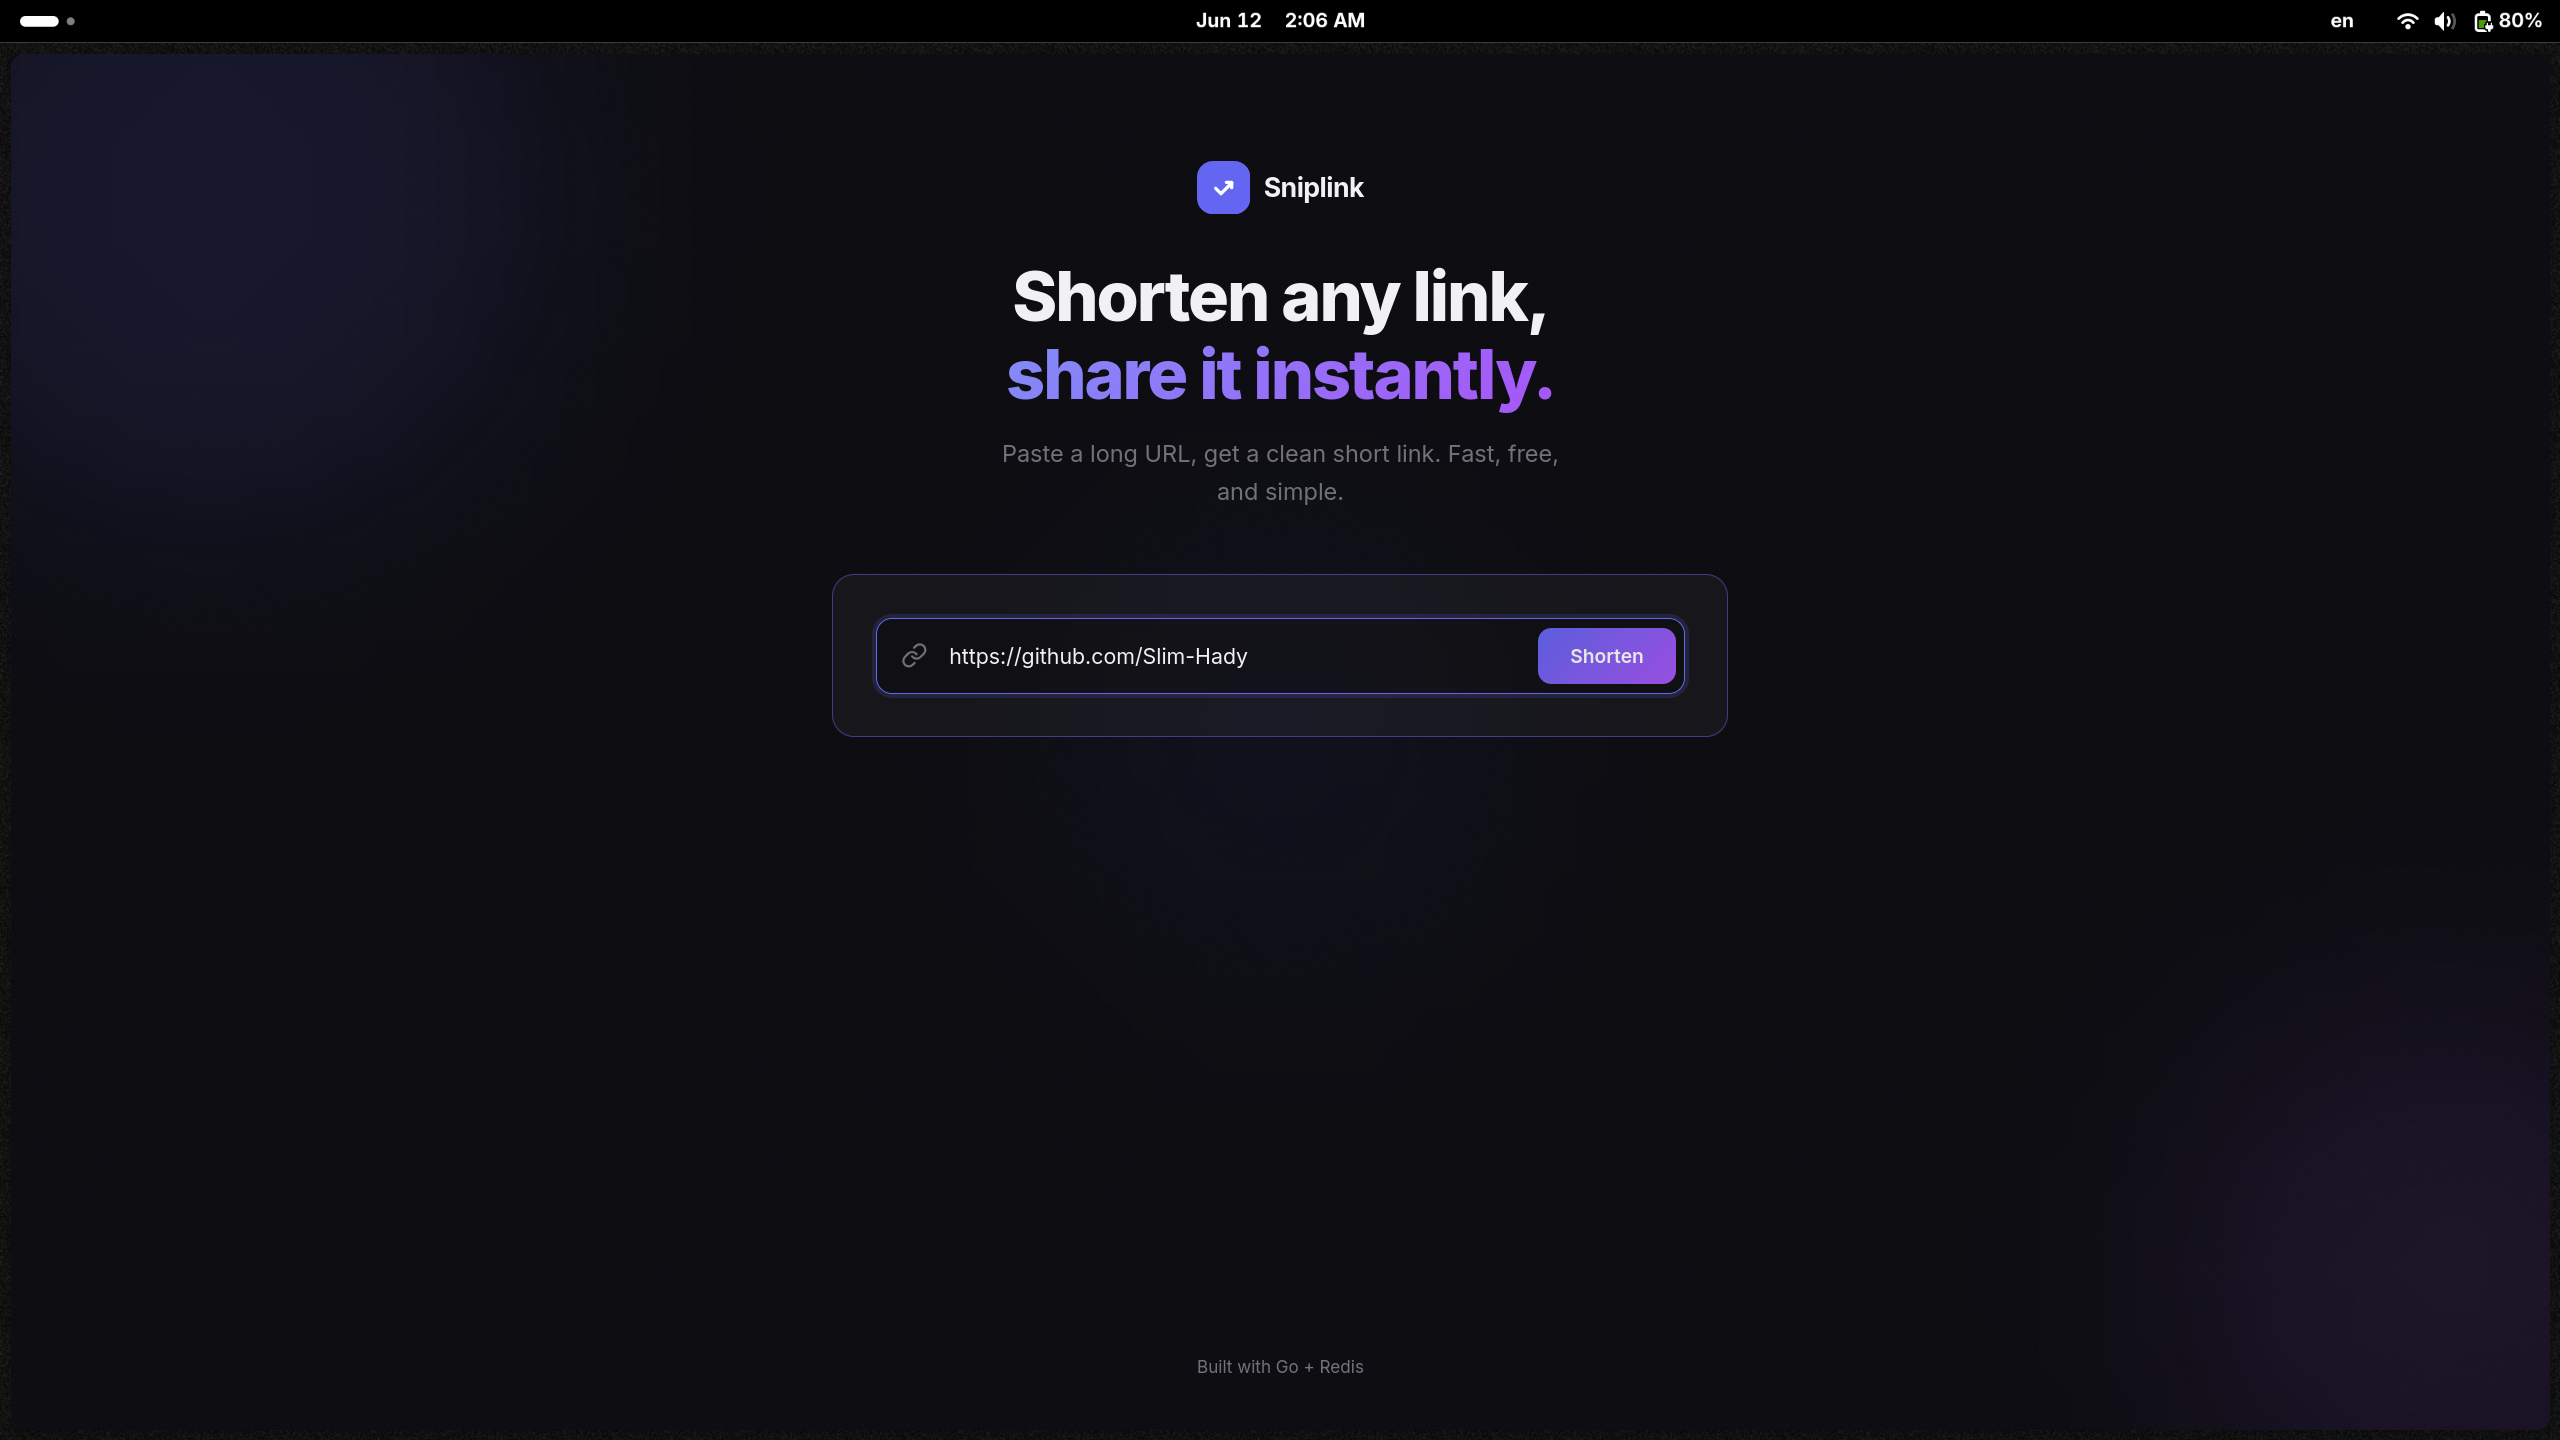
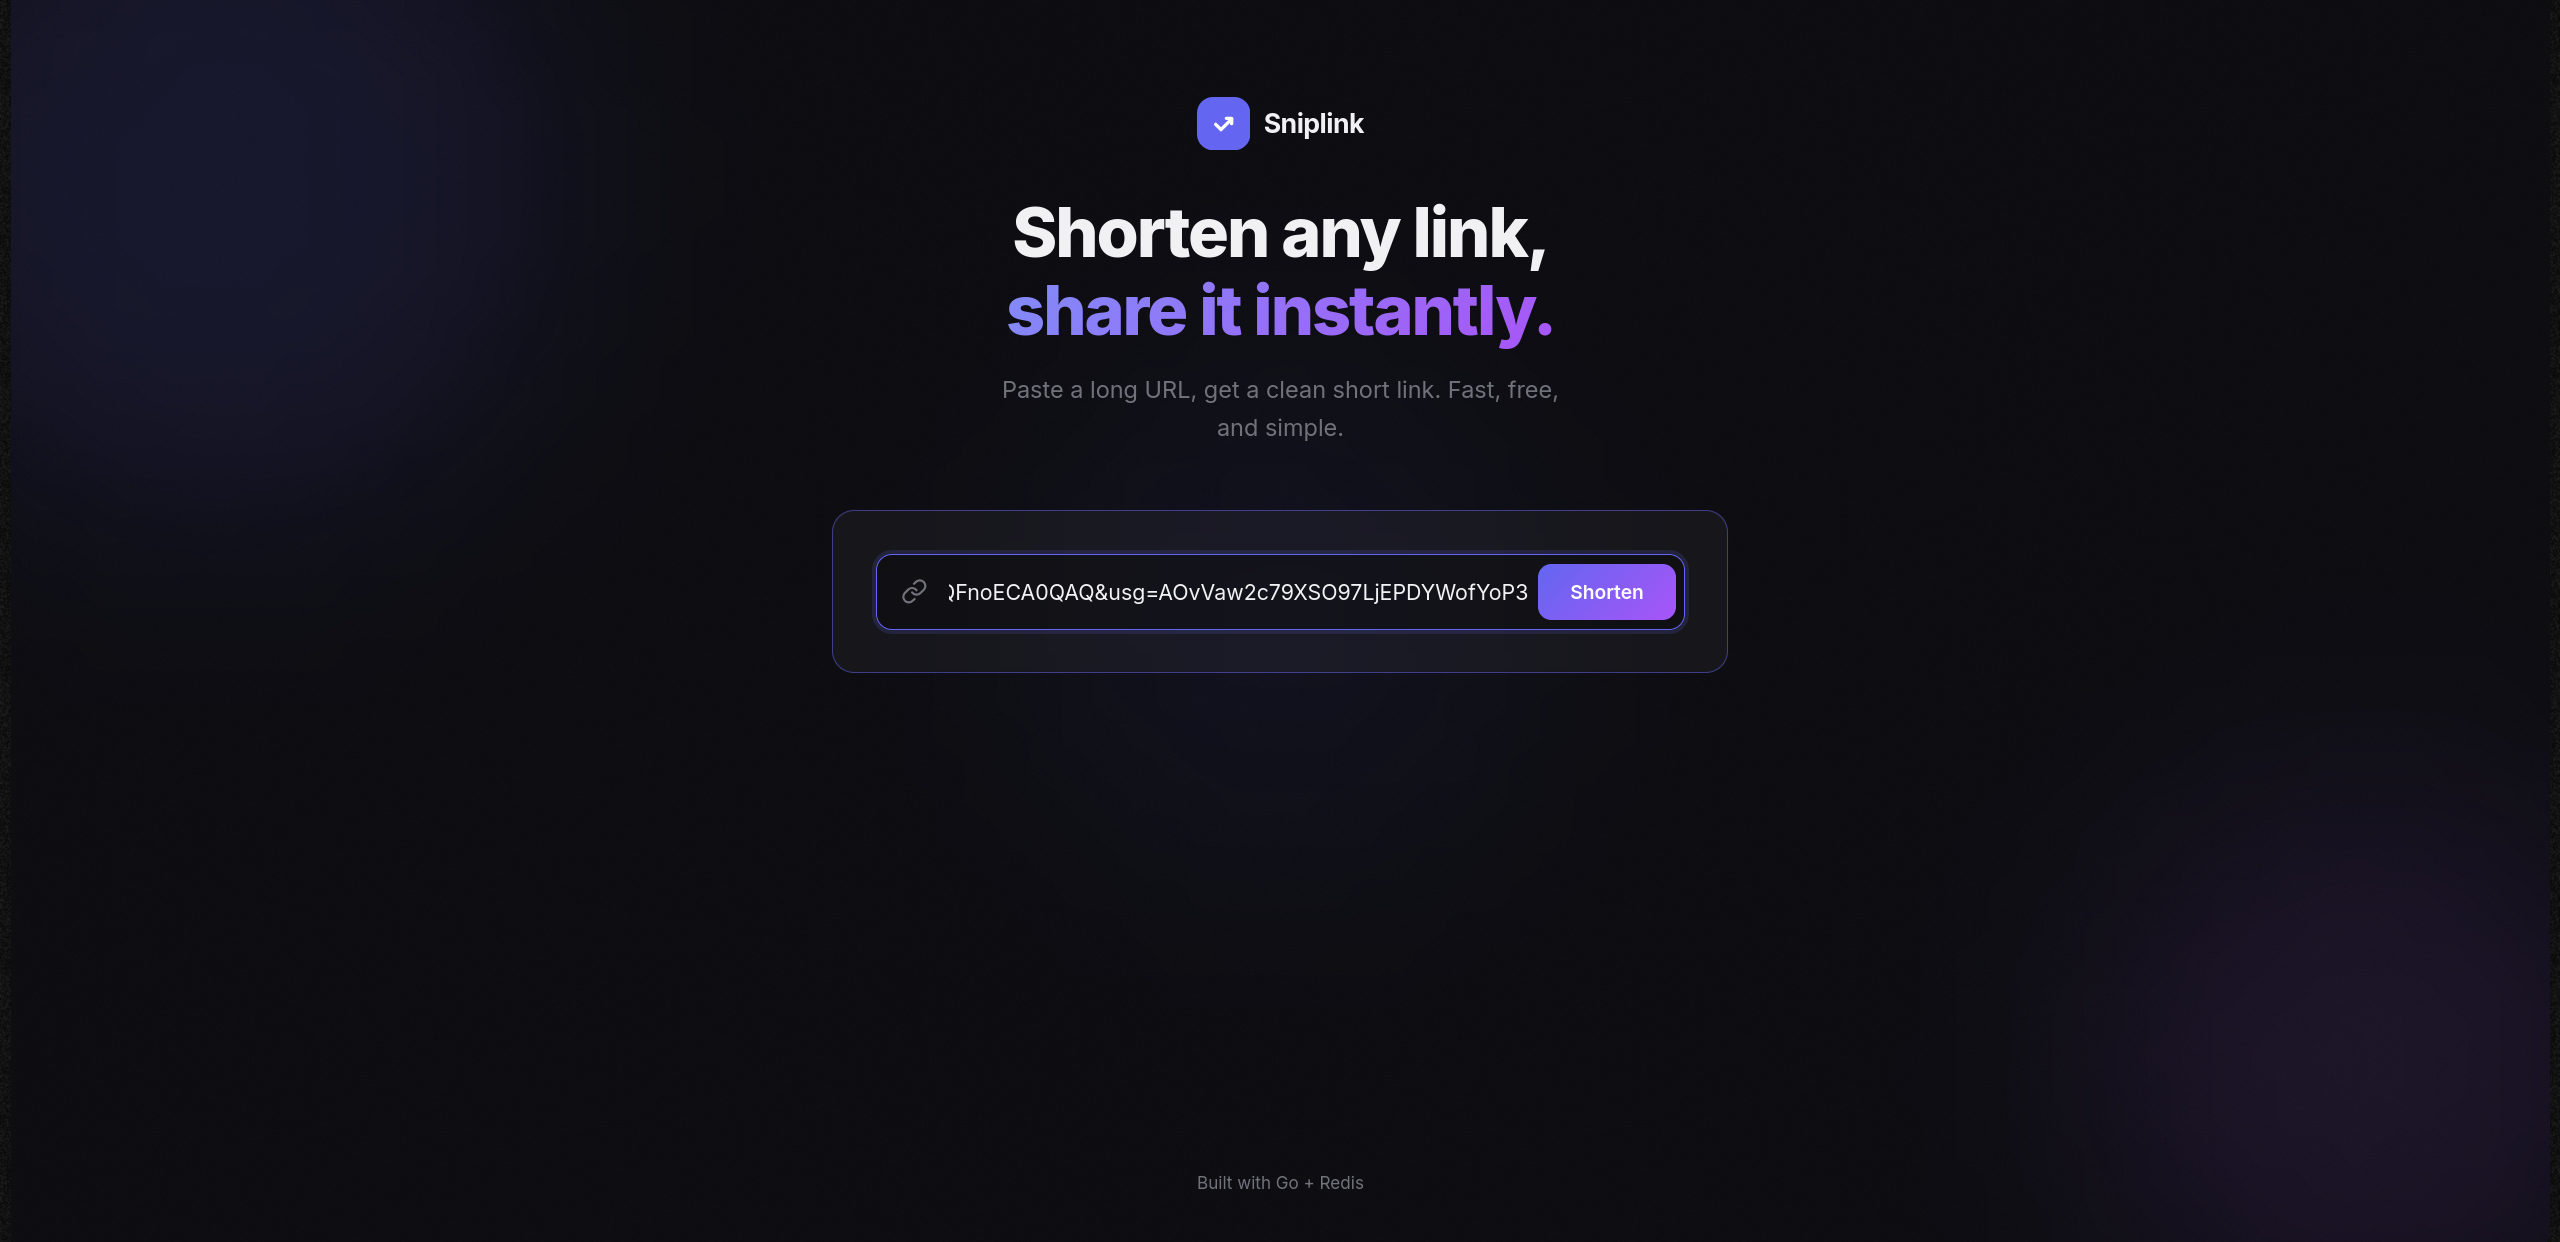
Update README

diff --git a/README.md b/README.md
@@ -35,6 +35,23 @@ go run main.go
 Server starts on http://localhost:8080
 ```
 
+## Teck used :
+
+- Go 
+- Redis
+- Docker 
+- HTML, CSS, JS (This part was vibecoded)
+
+## How it work : 
+
+- The Main concept is taking some long URL like http://{domainName}/{LongURL} and make it http://localhost:8080/{shortURL}
+-  the request come with the longURL so i take this request and use fnv-1a hash for the longURL and it output somelong numbers too so i take the first 6 characters of the hex hash
+- on redis i store the URL like this 
+originalURL : ShortURL, 
+ShortURL : OriginalURL 
+for the mapping between the two of them so when i click the short URL it redirect to the longURL using this mapping on the handler 
+
+
 ### API endpoints 
 
 1- POST /shorten : Create the shortURL 
@@ -94,7 +111,7 @@ this part is vibecoded
 
 # Photos
 
-## This is not a longURL i know but it work on all URL btw :) 
+## write any longURL
 
 ![alt text](Images/image.png)
 
